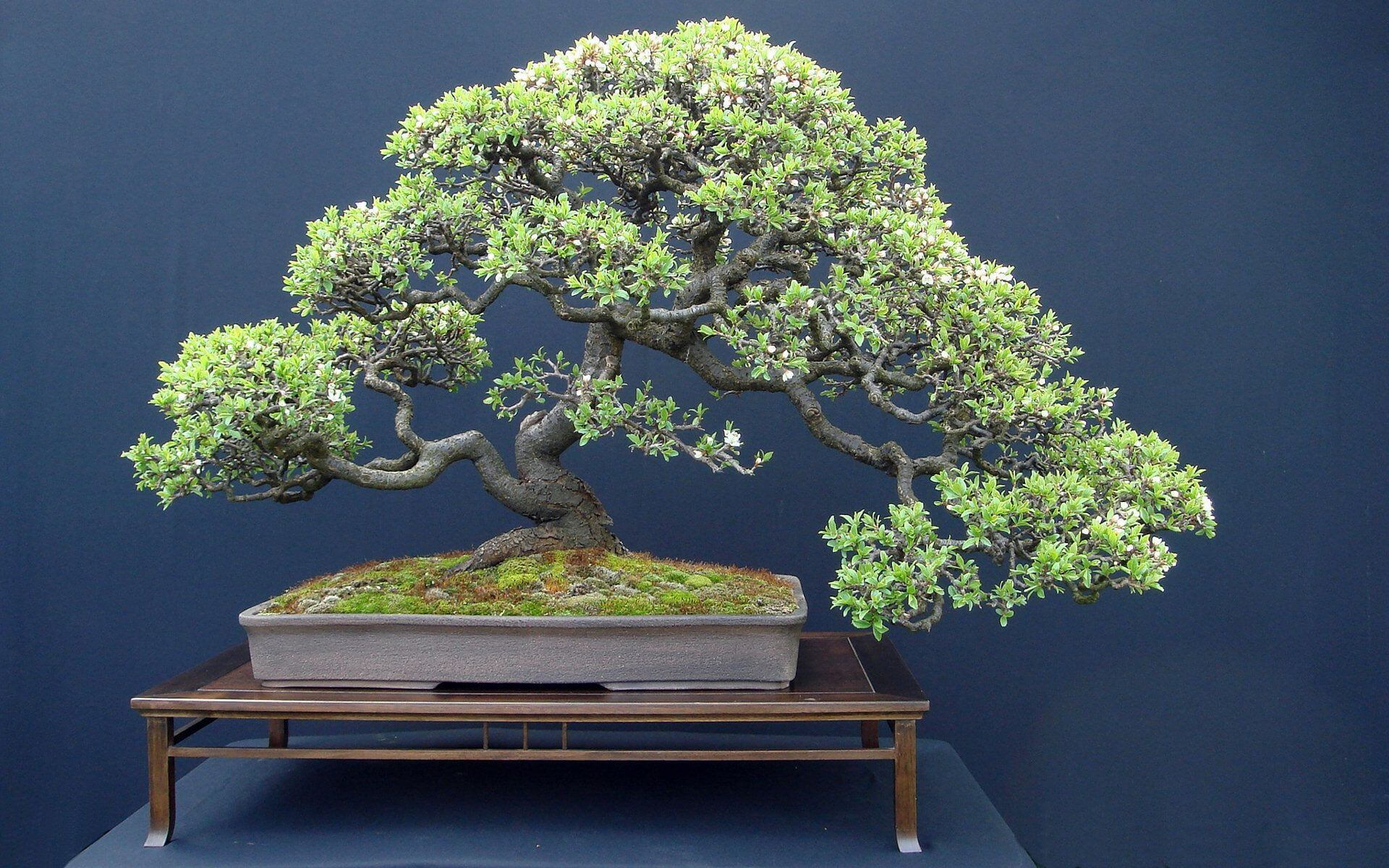
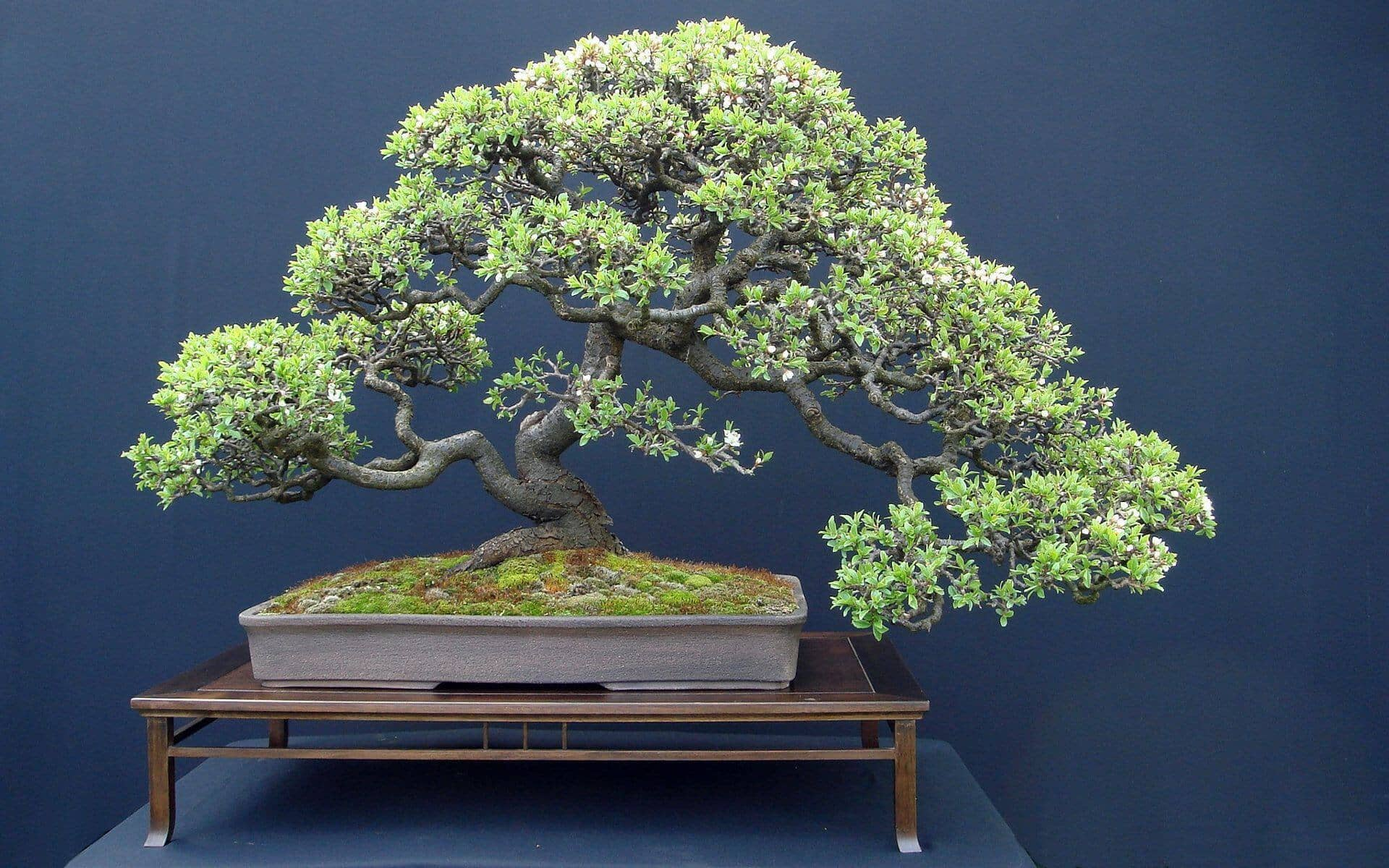
Added:Images are optimized

diff --git a/index.html b/index.html
@@ -120,7 +120,7 @@
         <div class="owl-carousel header-carousel position-relative">
 
             <div class="owl-carousel-item position-relative" data-dot="<img src='./assets/images/pexels-david-yu-2778192.jpg'>">
-                <img class="img-fluid" src="./assets/images/pexels-david-yu-2778192.jpg" alt="">
+                <img class="img-fluid" loading="lazy" src="./assets/images/pexels-david-yu-2778192.jpg" alt="carousel imgage 1">
                 <div class="owl-carousel-inner">
                     <div class="container">
                         <div class="row justify-content-start">
